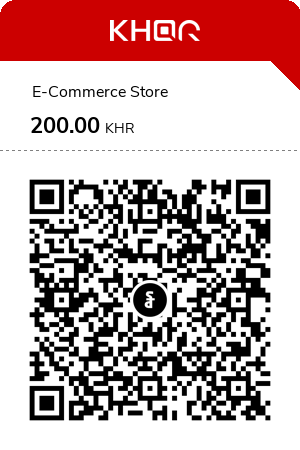
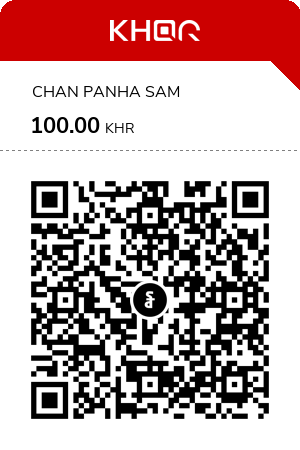
working all

Changed region(s): [[0.09, 0.3733, 0.93, 0.9333], [0.09, 0.1867, 0.6, 0.2178], [0.09, 0.2489, 0.15, 0.3111]]

diff --git a/app.py b/app.py
@@ -69,8 +69,8 @@ def checkout():
             from bakong_khqr import KHQR
             khqr = KHQR(os.getenv("BAKONG_TOKEN"))
             qr_string = khqr.create_qr(
-                bank_account="sam_chanpanha2@aclb",  # Replace with actual Bakong account
-                merchant_name="E-Commerce Store",
+                bank_account="sam_chanpanha@hfcb",  # Replace with actual Bakong account
+                merchant_name="CHAN PANHA SAM",
                 merchant_city="Phnom Penh",
                 amount=total,
                 currency="KHR",
@@ -120,10 +120,10 @@ def payment_success():
     # mail.send(msg)
 
     # # Send Telegram notification
-    # message = f"New order: Total {session.get('total', 0)} KHR from {session.get('name')} ({session.get('email')})"
-    # url = f"https://api.telegram.org/bot{TELEGRAM_BOT_TOKEN}/sendMessage"
-    # data = {'chat_id': TELEGRAM_CHAT_ID, 'text': message}
-    # requests.post(url, data=data)
+    message = f"New order: Total {session.get('total', 0)} KHR from {session.get('name')} ({session.get('email')})"
+    url = f"https://api.telegram.org/bot{TELEGRAM_BOT_TOKEN}/sendMessage"
+    data = {'chat_id': TELEGRAM_CHAT_ID, 'text': message}
+    requests.post(url, data=data)
 
     session.pop('cart', None)
     session.pop('qr_image', None)
